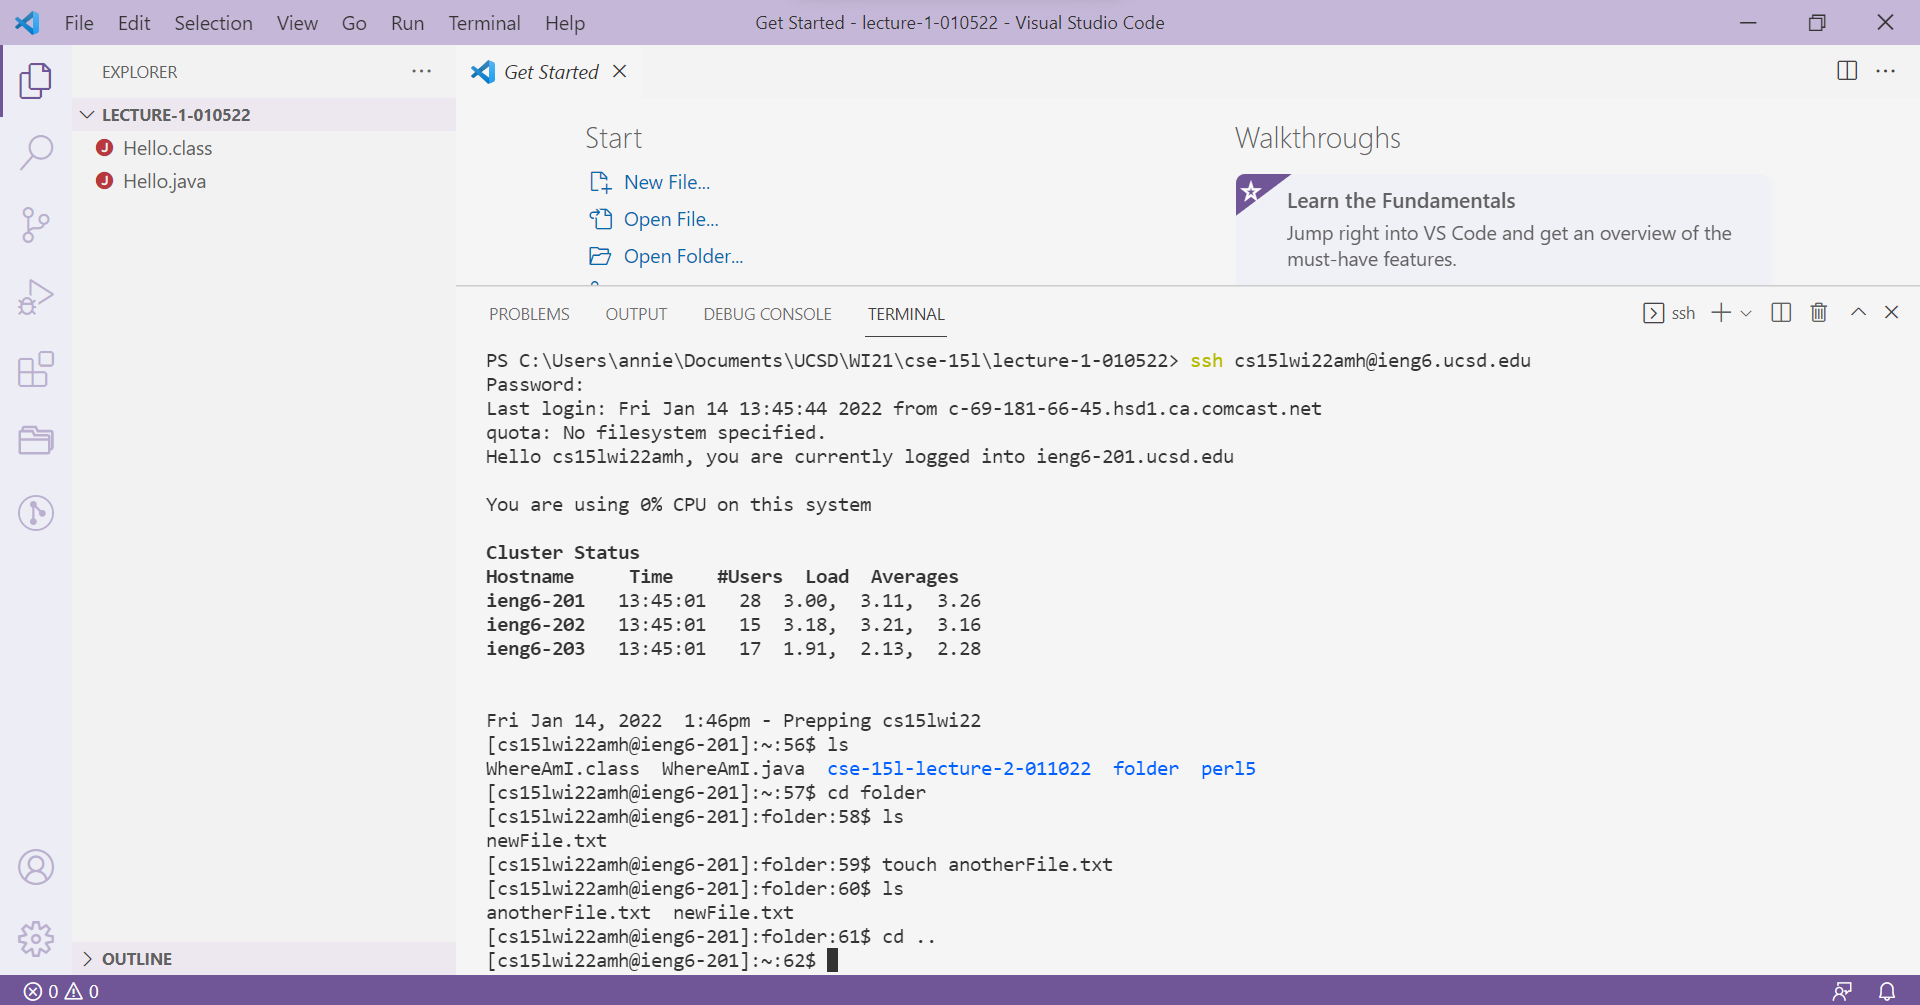
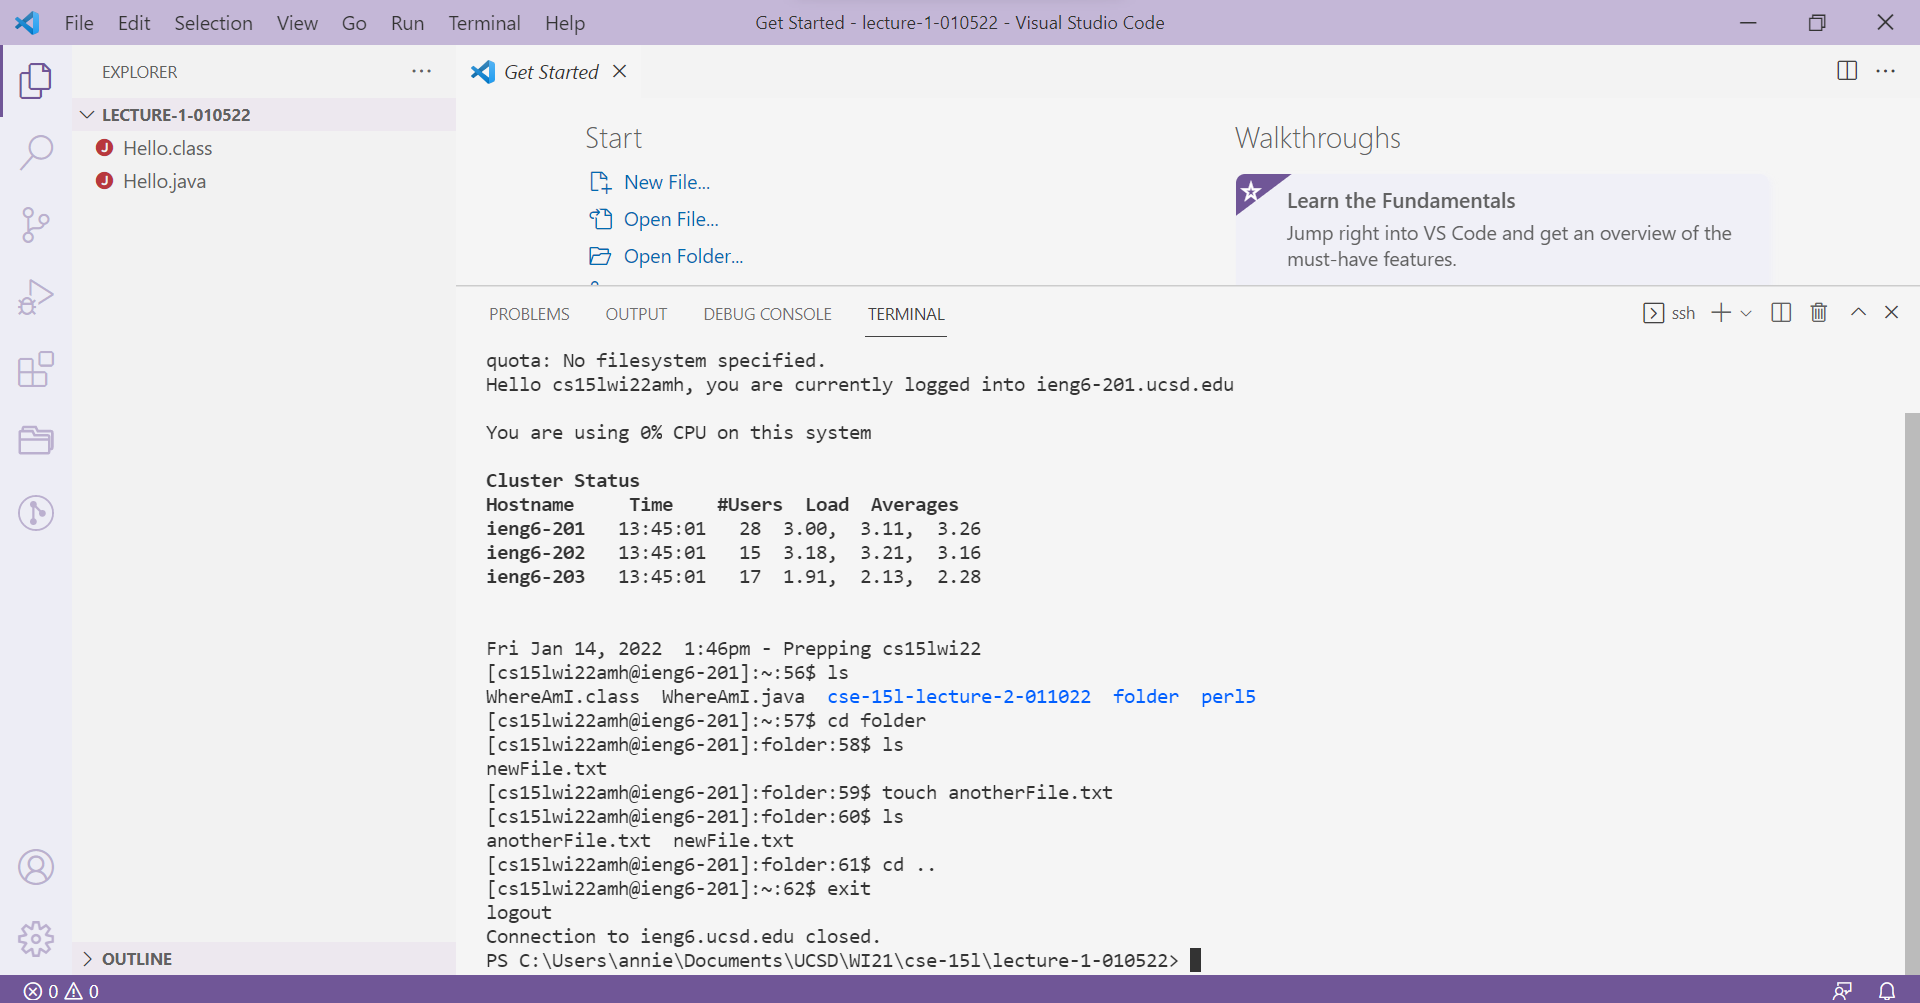
committ

diff --git a/lab-report-1-week-2.md b/lab-report-1-week-2.md
@@ -27,5 +27,8 @@ Once we are in the server, notice how our prompt in the terminal is different fr
 ![Screenshot](labreport1-3.2.png)
 3. `touch <new filename>` creates a new file in the current directory. If we run `ls`, we can see the new file we created.
 ![Screenshot](labreport1-3.3.png)
-4. Let's get out of the `folder` directory with the command `cd ..`. Notice how the prompt changes back to what we had earlier.
+4. Let's get out of the `folder` directory with the command `cd ..`. To get out of the SSH server, enter `exit` into the terminal. Notice how the prompt changes back to what we had earlier.
 ![Screenshot](labreport1-3.4.png)
+
+### **Moving Files over `SSH` with `scp`**
+1. Enter `scp <filename> <account email>`to copy a file from our client into our `ssh accounts.
